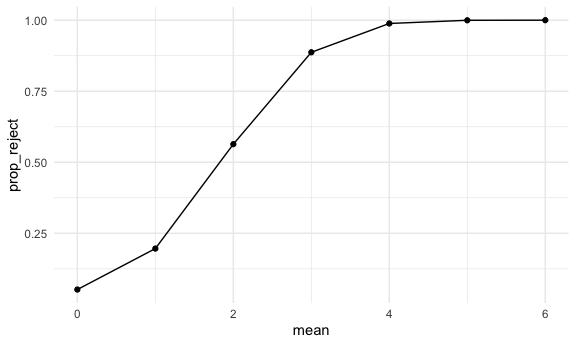
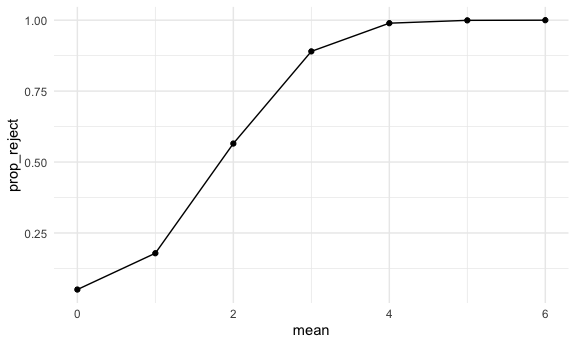
changes to plots in problem 3

diff --git a/p8105_hw5_jl2361.md b/p8105_hw5_jl2361.md
@@ -449,16 +449,16 @@ sim_df
     ## # A tibble: 5,000 × 4
     ##     mean  iter  mu_hat p_value
     ##    <dbl> <int>   <dbl>   <dbl>
-    ##  1     0     1 -1.35    0.258 
-    ##  2     0     2 -1.84    0.0534
-    ##  3     0     3  0.217   0.790 
-    ##  4     0     4 -0.0985  0.890 
-    ##  5     0     5 -0.224   0.774 
-    ##  6     0     6  0.967   0.288 
-    ##  7     0     7 -1.43    0.197 
-    ##  8     0     8  0.251   0.784 
-    ##  9     0     9  0.203   0.834 
-    ## 10     0    10  0.552   0.549 
+    ##  1     0     1 -0.953    0.297
+    ##  2     0     2  0.265    0.783
+    ##  3     0     3 -0.289    0.761
+    ##  4     0     4 -1.81     0.136
+    ##  5     0     5  0.339    0.760
+    ##  6     0     6  0.911    0.393
+    ##  7     0     7 -0.926    0.300
+    ##  8     0     8  0.0445   0.965
+    ##  9     0     9  0.350    0.696
+    ## 10     0    10  1.30     0.136
     ## # … with 4,990 more rows
 
 We repeat the above including μ={1,2,3,4,5,6}.
@@ -466,7 +466,7 @@ We repeat the above including μ={1,2,3,4,5,6}.
 ``` r
 sim_df2 = 
   expand_grid(
-    mean = c(0, 1, 2, 3, 4, 5, 6),
+    mean = c(0:6),
     iter = 1:5000) %>% 
   mutate(
     ttest_df = map(.x = mean, ~ sim_ttest(mean = .x))) %>% 
@@ -480,17 +480,17 @@ sim_df2
 
     ## # A tibble: 35,000 × 4
     ##     mean  iter  mu_hat p_value
-    ##    <dbl> <int>   <dbl>   <dbl>
-    ##  1     0     1  0.205    0.845
-    ##  2     0     2  0.266    0.760
-    ##  3     0     3  0.330    0.741
-    ##  4     0     4 -0.876    0.363
-    ##  5     0     5  0.732    0.441
-    ##  6     0     6  0.941    0.348
-    ##  7     0     7 -0.113    0.889
-    ##  8     0     8  0.0575   0.947
-    ##  9     0     9  1.02     0.312
-    ## 10     0    10 -0.191    0.848
+    ##    <int> <int>   <dbl>   <dbl>
+    ##  1     0     1  0.620   0.493 
+    ##  2     0     2 -0.660   0.386 
+    ##  3     0     3 -0.488   0.624 
+    ##  4     0     4  0.0214  0.984 
+    ##  5     0     5  0.372   0.673 
+    ##  6     0     6  1.52    0.130 
+    ##  7     0     7  0.627   0.524 
+    ##  8     0     8  1.38    0.0887
+    ##  9     0     9  1.87    0.0478
+    ## 10     0    10 -1.04    0.448 
     ## # … with 34,990 more rows
 
 ## Plots
@@ -498,8 +498,7 @@ sim_df2
 Here is a plot showing the proportion of times the null was rejected
 (the power of the test), assuming a 5% level of significance, on the y
 axis and the true value of μ on the x axis. As the effect size gets
-bigger, we see that power increases as well (and appears to max/plateau
-around a mean of 5).
+bigger, we see that power increases as well.
 
 ``` r
 sim_df2 %>% 
@@ -528,15 +527,18 @@ rejected, assuming a 5% level of significance, on the y axis and the
 true value of μ on the x axis.
 
 The sample average of μ̂ across tests for which the null is rejected is
-approximately equal to the true value of μ (and the error variance is
-lower) **as the effect size increases**.
+not approximately equal to the true value of μ, **especially as the
+effect size is smaller and power is lower**.
 
 ``` r
 mean_plot1 =
   sim_df2 %>% 
+  group_by(mean) %>%
+  summarize(
+    avg_muhat = mean(mu_hat)) %>%
   ggplot(
-    aes(x = mean, y = mu_hat)) +
-  geom_point(alpha = 0.5) +
+    aes(x = mean, y = avg_muhat)) +
+  geom_point() + geom_line() +
   labs(title = "All samples")
 
 mean_plot2 =
@@ -544,9 +546,12 @@ mean_plot2 =
     mutate(
     reject = if_else(p_value < 0.05, "y", "n")) %>%
   filter(reject == "y") %>%
+  group_by(mean) %>%
+  summarize(
+    avg_muhat = mean(mu_hat)) %>%
   ggplot(
-    aes(x = mean, y = mu_hat)) +
-  geom_point(alpha = 0.5) +
+    aes(x = mean, y = avg_muhat)) +
+  geom_point() + geom_line() +
   labs(title = "Samples for null rejected")
 
 mean_plot1 + mean_plot2
